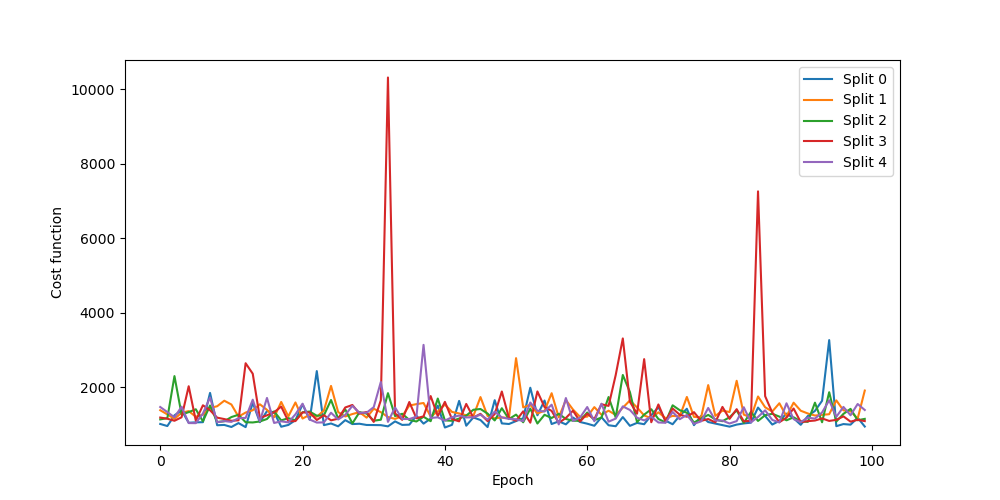
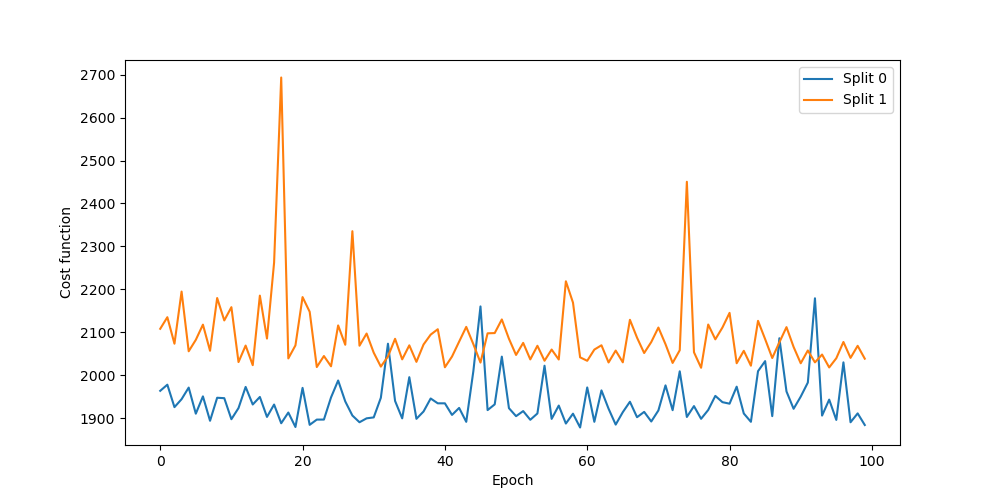
Merge remote-tracking branch 'origin/master'

diff --git a/SVM_Segmentation/svm.py b/SVM_Segmentation/svm.py
@@ -90,9 +90,9 @@ def sgd(features, outputs):
 
 def processImage(image_path, imgSize):
     img = io.imread(image_path)
-    #img = resize(img, (imgSize, imgSize))
-    img = tiles.tiles(img, imgSize)
-    img = ai.oneD_array_to_twoD_array(img)
+    img = resize(img, (imgSize, imgSize))
+    #img = tiles.tiles(img, imgSize)
+    #img = ai.oneD_array_to_twoD_array(img)
     img_canny = canny(img)
     img_canny = img_canny.reshape(-1, 1)
     img = img.reshape(-1, 1)
@@ -101,9 +101,9 @@ def processImage(image_path, imgSize):
 
 def processMask(image_path, imgSize):
     img = io.imread(image_path)
-    img = tiles.tiles(img, imgSize)
-    img = ai.oneD_array_to_twoD_array(img)
-    #img = resize(img, (imgSize, imgSize))
+    #img = tiles.tiles(img, imgSize)
+    #img = ai.oneD_array_to_twoD_array(img)
+    img = resize(img, (imgSize, imgSize))
     img[img > 0] = 1
     img[img < 1] = -1
     img = img.flatten()
@@ -117,7 +117,7 @@ def predict(imageIndex, W):
 
 def predictScore(data, gt, W):
     pred = [np.sign(np.dot(data[pixelN], W)) for pixelN in range(data.shape[0])]
-    return ds.dice_score(pred, gt)
+    return dice_score(pred, gt)
 
 def pred2Image(prediction):
     prediction = np.array(prediction)
@@ -132,10 +132,10 @@ print(f"{len(imgs)} images detected and {len(masks)} masks detected")
 NImagesTraining = 4
 X_train = np.vstack([processImage(imgPath, IMGSIZE) for imgPath in imgs[:NImagesTraining]])
 y_train = np.concatenate([processMask(imgPath, IMGSIZE) for imgPath in masks[:NImagesTraining]])
-X_test = [processImage(imgPath, IMGSIZE) for imgPath in imgs[NImagesTraining:]]
-y_test = [processMask(imgPath, IMGSIZE) for imgPath in masks[:NImagesTraining]]
+X_test = np.vstack([processImage(imgPath, IMGSIZE) for imgPath in imgs[NImagesTraining:]])
+y_test = np.concatenate([processMask(imgPath, IMGSIZE) for imgPath in masks[NImagesTraining:]])
 
-skf = StratifiedKFold(n_splits=5)
+skf = StratifiedKFold(n_splits=2)
 
 regularization_strength = 10000
 learning_rate = 0.00001
@@ -167,12 +167,20 @@ img_names = []
 for filename in sorted(os.listdir('../Data/N2DH-GOWT1/img')):
         img_names.append(filename)
 
-Ntest = len(imgs) - NImagesTraining
+#Ntest = len(imgs) - NImagesTraining
 fig, ax = plt.subplots(dpi=90)
-for i in range(Ntest):
-    ii = i+NImagesTraining
-    pred, gt = predict(ii, w_mean_model)
-    ax.imshow(pred2Image(pred), cmap='gray')
-    ax.axis('On')
-    ax.set_title(f"Test img: {ii+1} Dice:{round(ds.dice_score(gt, pred), 2)}")
-    plt.savefig(f"{output_dir}/{img_names[ii]}_pred_lr-{learning_rate}-reg-{regularization_strength}.png")
+for i in range(np.int(X_test.shape[0]/IMGSIZE)):
+    if i == 1:
+        img = X_test[i:IMGSIZE*i+i]
+        pred, gt = predict(i, w_mean_model)
+        ax.imshow(pred2Image(pred), cmap='gray')
+        ax.axis('On')
+        ax.set_title(f"Test img: {i + 1} Dice:{round(dice_score(gt, pred), 2)}")
+        plt.savefig(f"{output_dir}/{img_names[i]}_pred_lr-{learning_rate}-reg-{regularization_strength}.png")
+    if i > 1:
+        img = X_test[IMGSIZE*(i-1)+i:IMGSIZE*i+i]
+        pred, gt = predict(i, w_mean_model)
+        ax.imshow(pred2Image(pred), cmap='gray')
+        ax.axis('On')
+        ax.set_title(f"Test img: {i+1} Dice:{round(dice_score(gt, pred), 2)}")
+        plt.savefig(f"{output_dir}/{img_names[i]}_pred_lr-{learning_rate}-reg-{regularization_strength}.png")
